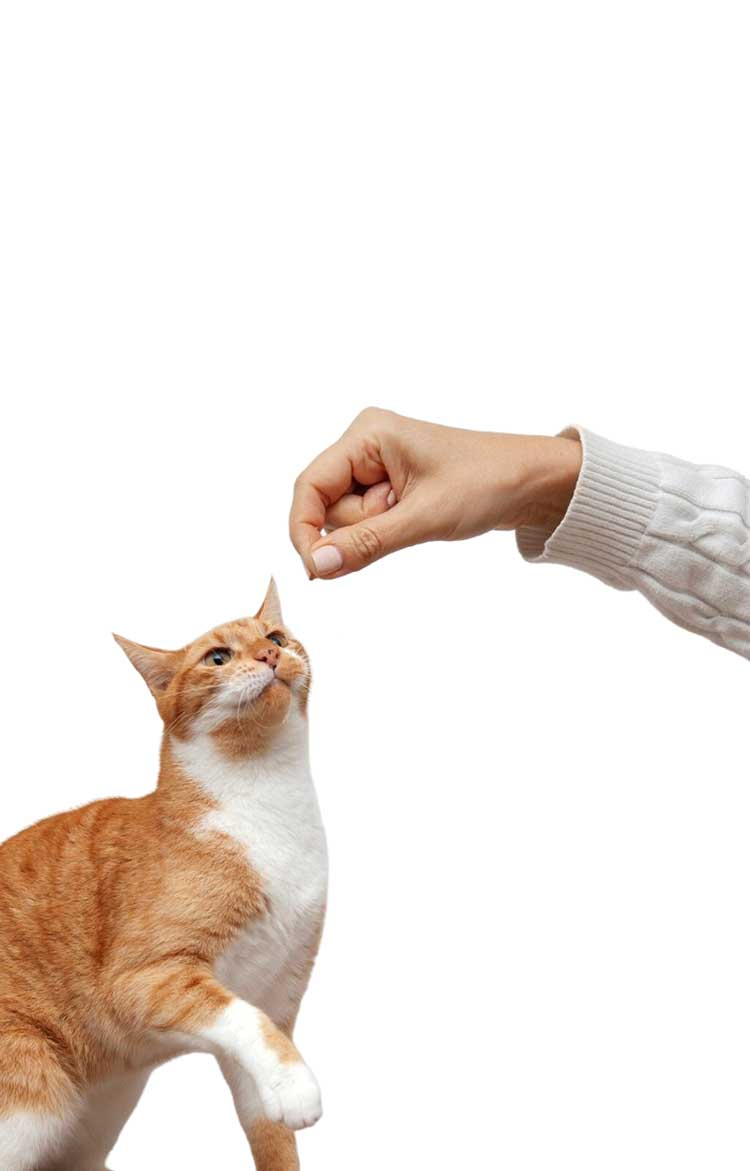
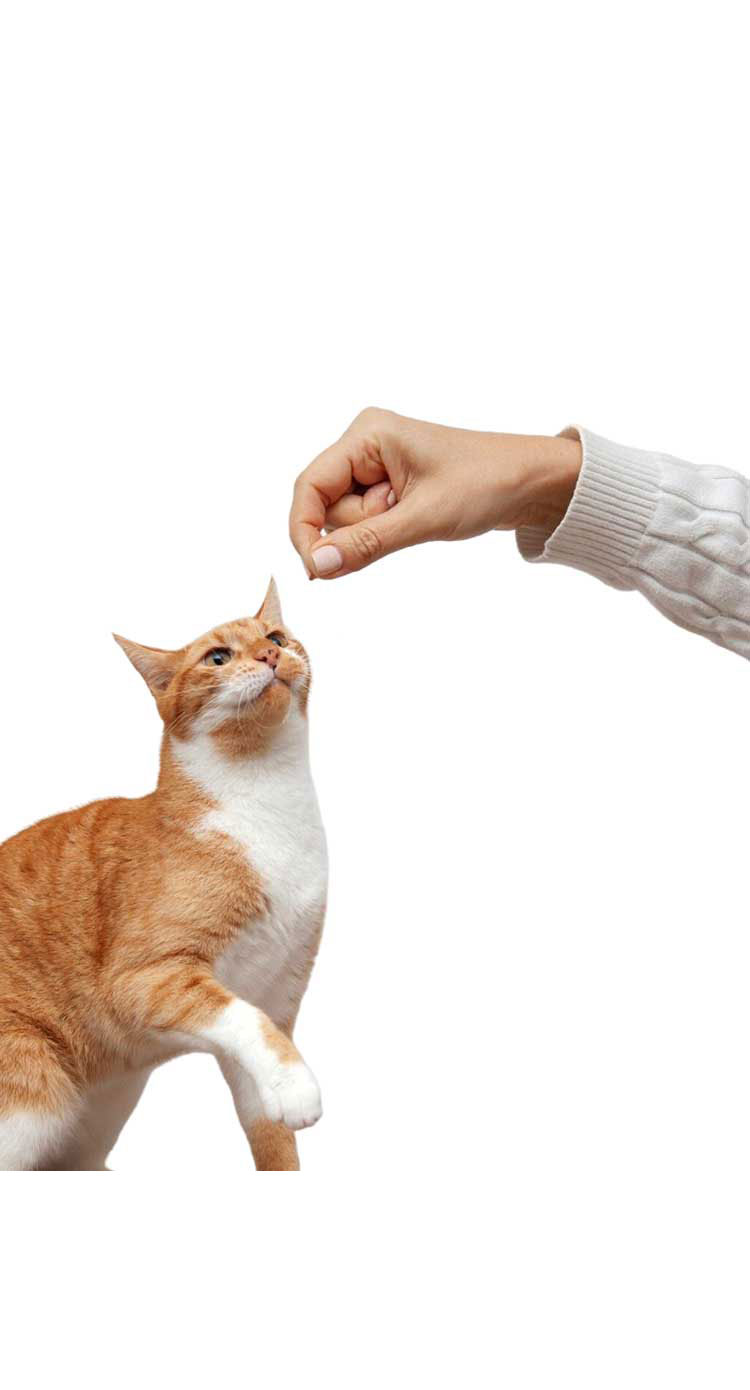
20251024

Changed region(s): [[0.0, 0.2767, 1.0, 1.0]]

diff --git a/src/views/HealthyMPage.vue b/src/views/HealthyMPage.vue
@@ -6,7 +6,7 @@
     <!-- Hero -->
     <section class="hero">
       <div class="hero-bg">
-      <img src="../assets/mimgs/healthy_bg_02.jpg" alt="">
+        <img src="../assets/mimgs/healthy_bg_02.jpg" alt="">
       </div>
       <div class="title1">
         Ensuring Your Pet's<br>
@@ -22,7 +22,7 @@
 
     <!-- Unleash energy -->
     <section class="unleash" ref="boxRef">
-      <img src="../assets/images/why-healthy_04.jpg" alt="">
+      <img src="../assets/mimgs/healthy_bg_03.jpg" alt="">
       <div class="unleash-text1" :class="{ showBox }">
         <div class="text-sub1">At GloriPetgo™, we are dedicated to ensuring that your <span>beloved pet receives
             nutrition, safety, and deliciousness,</span> all while building a solid health barrier. </div>
@@ -36,36 +36,39 @@
       </div>
     </section>
     <div class="advance-block">
-      <div class="left">
-        <div class="text-wrapper">
-          <div class="text-block">
-            <div @mouseover="showPic(1)" :class="picIndex == 1 ? 'text-1 active' : 'text-1'">
-              <div class="text-left">01</div>
-              <div class="text-right">Premium<br>
-                Ingredients </div>
-            </div>
-            <div class="line"></div>
-            <div @mouseover="showPic(2)" :class="picIndex == 2 ? 'text-1 active' : 'text-1'">
-              <div class="text-left">02</div>
-              <div class="text-right">Advanced<br>
-                Manufacturing<br>
-                Techniques</div>
-            </div>
-            <div class="line"></div>
-            <div @mouseover="showPic(3)" :class="picIndex == 3 ? 'text-1 active' : 'text-1'">
-              <div class="text-left">03</div>
-              <div class="text-right">Scientific<br>
-                feeding<br>
-                guide</div>
-            </div>
+      <Swiper :modules="modules" :loop="true" :slides-per-view="1" :pagination="{ clickable: true }" :autoplay="{ delay: 4000, disableOnInteraction: false }" :navigation="{ nextEl: '.custom-pd-next', prevEl: '.custom-pd-prev' }" class="pd-swiper-box">
+        <SwiperSlide>
+          <div class="pd-slide-item">
+            <img src="../assets/mimgs/why-health-1.jpg" alt="">
+            <div class="text-left">01</div>
+            <div class="text-right">Premium<br>
+              Ingredients </div>
           </div>
-        </div>
-        <img src="../assets/images/salmon.jpg" alt="">
+        </SwiperSlide>
+        <SwiperSlide>
+          <div class="pd-slide-item">
+            <img src="../assets/mimgs/why-health-2.jpg" alt="">
+            <div class="text-left">02</div>
+            <div class="text-right">Advanced<br>
+              Manufacturing<br>
+              Techniques</div>
+          </div>
+        </SwiperSlide>
+        <SwiperSlide>
+          <div class="pd-slide-item">
+            <img src="../assets/mimgs/why-health-3.jpg" alt="">
+            <div class="text-left">03</div>
+            <div class="text-right">Scientific<br>
+              feeding<br>
+              guide</div>
+          </div>
+        </SwiperSlide>
+      </Swiper>
+      <div class="custom-pd-prev">
+        <img src="../assets/images/icon-arrow.svg" alt="">
       </div>
-      <div class="right">
-        <img v-show="picIndex == 2" src="../assets/images/food.jpg" alt="">
-        <img v-show="picIndex == 3" src="../assets/images/cat.jpg" alt="">
-        <img v-show="picIndex == 1" src="../assets/images/salmon.jpg" alt="">
+      <div class="custom-pd-next">
+        <img src="../assets/images/icon-arrow.svg" style="transform: rotate(180deg);" alt="">
       </div>
     </div>
     <div class="good-taste-block">
@@ -135,7 +138,6 @@
             </div>
           </div>
         </SwiperSlide>
-
       </Swiper>
     </div>
     <section class="Manufacturing " ref="manuRef">
@@ -178,7 +180,7 @@
       </div>
     </section>
     <!-- Footer -->
-        <FooterMPage />
+    <FooterMPage />
   </div>
 </template>
 
@@ -194,10 +196,7 @@ const router = useRouter()
 const goWhy = () => {
   router.push({ name: 'Healthy' });
 }
-const picIndex = ref(1)
-const showPic = (val) => {
-  picIndex.value = val
-}
+
 const swiperRef = ref(null)
 
 const onSwiper = (swiper) => {
@@ -273,7 +272,7 @@ onBeforeUnmount(() => {
 <style lang="scss" scoped>
 .landing-page {
   width: 100%;
-  background: #e8e8e8;
+  background: #fff;
 
   .hero {
     position: relative;
@@ -302,7 +301,7 @@ onBeforeUnmount(() => {
       top: 35%;
       left: 10%;
       font-family: "RedHatDisplay-Medium";
-      font-size: 60px;
+      font-size: 28px;
       line-height: 1;
       text-align: center;
       width: 80%;
@@ -313,7 +312,7 @@ onBeforeUnmount(() => {
 
       .title1-sub1 {
         font-family: "RedHatDisplay-black";
-        font-size: 66px;
+        font-size: 30px;
       }
     }
   }
@@ -350,10 +349,9 @@ onBeforeUnmount(() => {
 
     .unleash-text1 {
       position: absolute;
-      top: 50px;
-      width: 1000px;
-      left: 50%;
-      margin-left: -500px;
+      top: 20px;
+      width: 80%;
+      left: 10%;
       opacity: 0;
       //   transform: translateY(-100px);
       transition: all 0.8s 0.8s ease-out;
@@ -365,7 +363,7 @@ onBeforeUnmount(() => {
 
       .text-sub1 {
         font-family: "RedHatDisplay-Regular";
-        font-size: 50px;
+        font-size: 26px;
         line-height: 1;
         text-align: left;
         color: #9f9f9f;
@@ -394,12 +392,12 @@ onBeforeUnmount(() => {
 
     .unleash-text2 {
       position: absolute;
-      width: 35%;
-      bottom: 20%;
-      right: 15%;
+      width: 44%;
+      bottom: 160px;
+      left: 50%;
       color: #212995;
       font-family: "RedHatDisplay-Regular";
-      font-size: 20px;
+      font-size: 14px;
       line-height: 1.2;
       text-align: left;
       opacity: 0;
@@ -412,13 +410,13 @@ onBeforeUnmount(() => {
 
     .unleash-text3 {
       position: absolute;
-      width: 1000px;
-      bottom: -10px;
-      left: 50%;
-      margin-left: -500px;
+      width: 80%;
+      bottom: -7px;
+      left: 10%;
+      /* margin-left: -500px; */
       color: #212995;
       font-family: "RedHatDisplay-Regular";
-      font-size: 70px;
+      font-size: 45px;
       line-height: 1;
       text-align: center;
       opacity: 0;
@@ -436,81 +434,33 @@ onBeforeUnmount(() => {
   }
 
   .advance-block {
-    display: flex;
-    justify-content: space-between;
-    align-items: center;
     width: 100%;
-
-    .left {
-      position: relative;
-      line-height: 0;
-      width: 50%;
-      background: #f25929;
-
-      img {
-        opacity: 0;
-        width: 100%;
-      }
-
-      .text-wrapper {
-        position: absolute;
-        top: 0;
-        left: 0;
-        width: 100%;
-        height: 100%;
-        display: flex;
-        justify-content: center;
-        align-items: center;
-
-        .text-block {
-          width: 300px;
-          z-index: 100;
-
-          .text-1 {
-            cursor: pointer;
-            width: 100%;
-            display: flex;
-            font-family: "Oswald-Regular";
-            font-size: 35px;
-            line-height: 1;
-            text-align: left;
-            color: #fff;
-            margin: 20px 0;
-            padding-left: 10px;
-
-            .text-left {
-              width: 30px;
-              font-family: "Oswald-Regular";
-              font-size: 25px;
-              margin-right: 12px;
-              margin-top: 1px;
-            }
-
-            &.active {
-              color: #212995;
-            }
-
-            &:hover {
-              color: #212995;
-            }
-          }
-
-          .line {
-            width: 300px;
-            height: 3px;
-            border-radius: 2px;
-            background-color: #8f8f8f;
-          }
-        }
-      }
+    img {
+      width: 100%;
     }
-
-    .right {
-      width: 50%;
-      font-size: 0;
-
-      img {
+    .pd-swiper-box {
+      width: 100%;
+      .pd-slide-item {
         width: 100%;
+        position: relative;
+        text-align: left;
+        color: #212995;
+        .text-left {
+          position: absolute;
+          top: 230px;
+          left: 35px;
+          font-family: "Oswald-Regular";
+          font-size: 20px;
+          line-height: 1.2;
+        }
+        .text-right {
+          position: absolute;
+          top: 230px;
+          left: 70px;
+          font-family: "Oswald-Regular";
+          font-size: 20px;
+          line-height: 1.2;
+        }
       }
     }
   }
@@ -806,7 +756,7 @@ onBeforeUnmount(() => {
       margin-left: -250px;
       color: #000;
       opacity: 0;
-      transition: all 0.8s  ease-out;
+      transition: all 0.8s ease-out;
 
       &.showFeed {
         opacity: 1;
@@ -862,5 +812,4 @@ onBeforeUnmount(() => {
     }
   }
 }
-
 </style>

diff --git a/src/router/index.js b/src/router/index.js
@@ -2,7 +2,7 @@
  * @Description: 
  * @Author: Viga
  * @Date: 2025-09-17 14:22:34
- * @LastEditTime: 2025-10-22 15:55:11
+ * @LastEditTime: 2025-10-24 13:51:03
  */
 import { createRouter, createWebHistory } from 'vue-router'
 import HomePage from '@/views/HomePage.vue'
